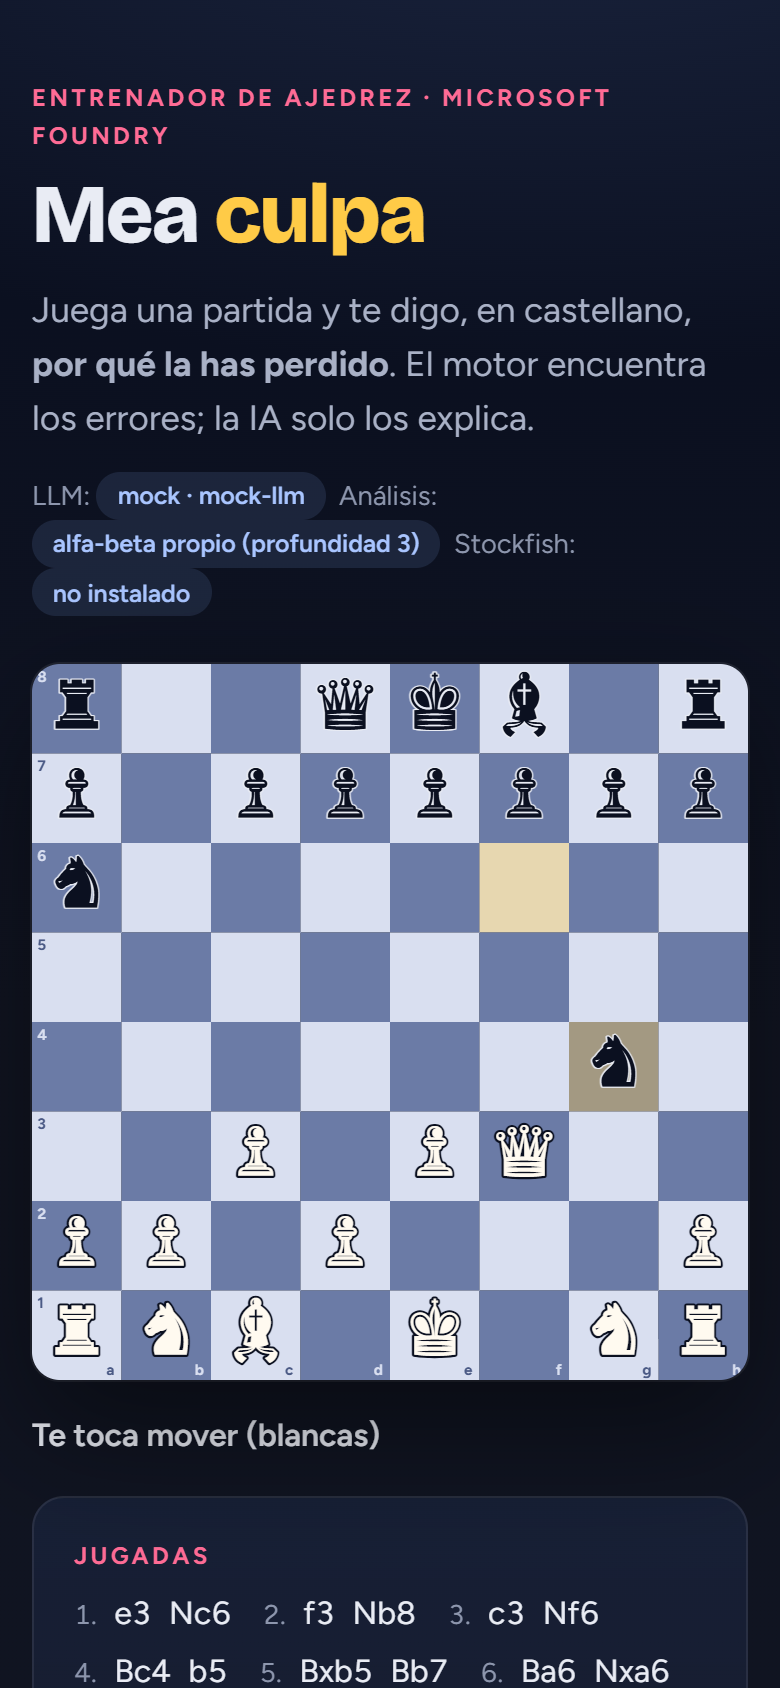
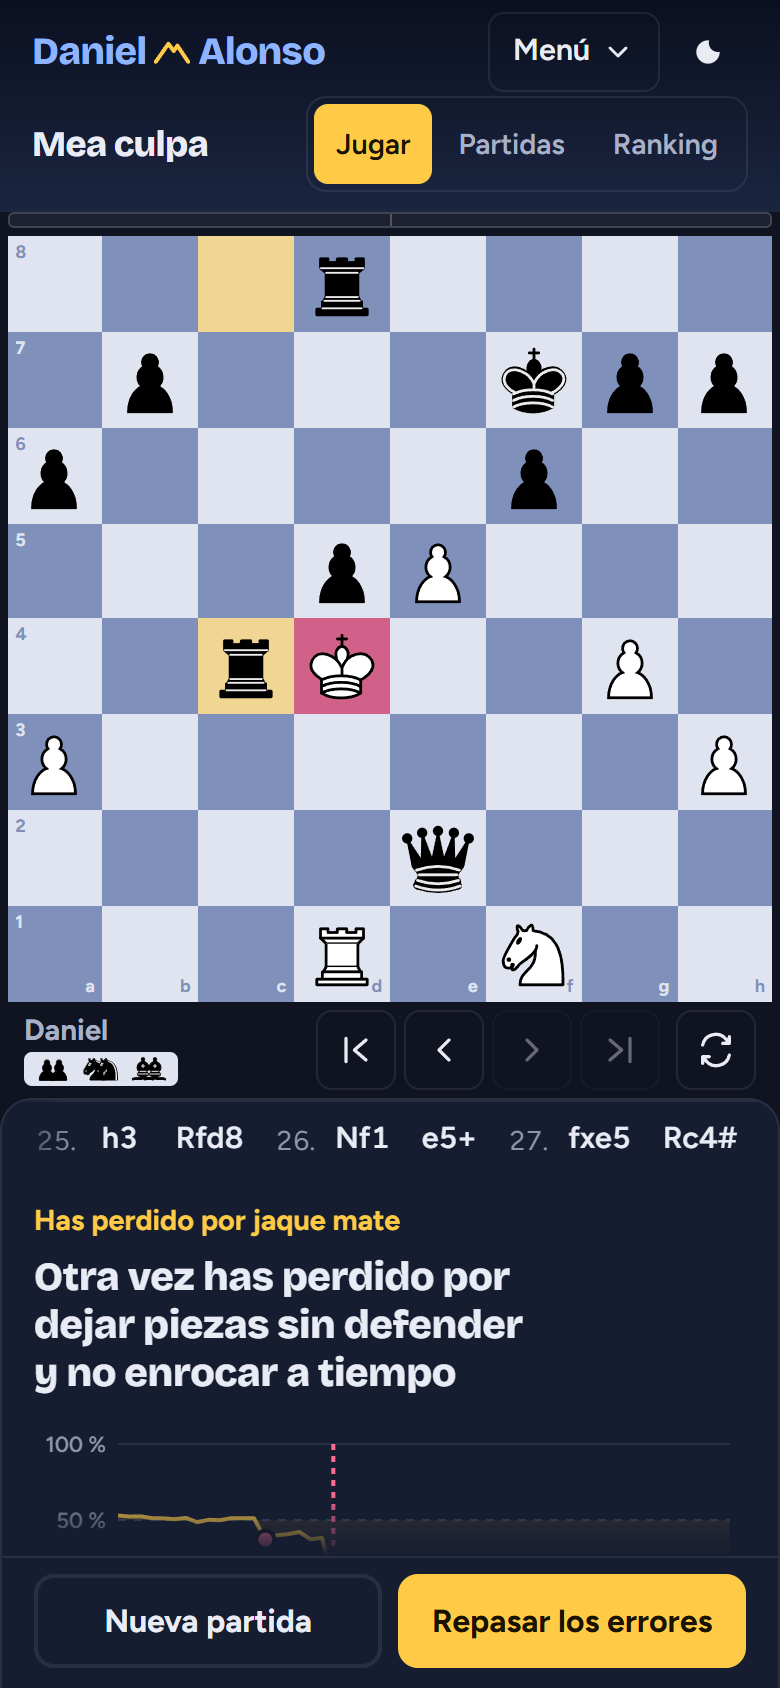
README: capturas de la versión en producción y datos al día
Capturas nuevas (diagnóstico real de GPT-4.1 mini tras perder contra Stockfish, rival Llama 3.3 70B
corrigiendo una jugada ilegal y vista de móvil) y fuera lo que ya no es cierto: 316 tests, Stockfish
en la imagen, Foundry y la CI ya probados de verdad.

diff --git a/README.md b/README.md
@@ -6,7 +6,7 @@ Un entrenador de ajedrez que, al acabar la partida, te dice **en castellano y si
 no se lo inventa: un motor de ajedrez encuentra los errores y un LLM desplegado en **Microsoft Foundry** solo los
 explica.
 
-![Diagnóstico tras una partida contra el minimax](docs/diagnostico.png)
+![Diagnóstico de una partida perdida contra Stockfish: GPT-4.1 mini en Foundry explica los errores que encontró el motor](docs/diagnostico.png)
 
 ## El problema
 
@@ -25,7 +25,7 @@ El script de evaluación está listo para repetirse contra un modelo real de Fou
 
 | Qué | Resultado |
 |---|---|
-| Tests | **135 tests en verde** (`pytest`; 134 + 1 que solo corre con Stockfish instalado): validación de jugadas, reintentos/fallback, modo experimento (derrota por ilegalidad), tope de gasto, extracción de jugadas en texto, proveedores Azure OpenAI, Claude en Foundry y Ollama con red simulada, Stockfish como ancla, aperturas, Elo por máxima verosimilitud y torneo de punta a punta, mates en 1 y 2, detección de errores, validación de la salida del LLM, API, cliente de Azure con red simulada, login con Google (tokens firmados de prueba), aislamiento entre usuarios, cuotas y almacén Blob simulado |
+| Tests | **316 tests en verde** (`pytest`; alguno solo corre con Stockfish instalado): validación de jugadas, reintentos/fallback, modo experimento (derrota por ilegalidad), tope de gasto, extracción de jugadas en texto, proveedores Azure OpenAI, Claude en Foundry y Ollama con red simulada, Stockfish como ancla, aperturas, Elo por máxima verosimilitud y torneo de punta a punta, mates en 1 y 2, detección de errores, validación de la salida del LLM, API, cliente de Azure con red simulada, login con Google (tokens firmados de prueba), aislamiento entre usuarios, cuotas y almacén Blob simulado |
 | Detección de errores en partidas históricas | En las miniaturas, la mayor caída del motor es el error clásico: **5…Bxd1??** en el mate de Légal, **2.g4??** en el mate del loco, **3…Nf6??** en el del pastor. En las partidas largas, el alfa-beta a profundidad 3 no siempre coincide con el análisis histórico (en la Siempreviva marca 7…d3 y no 19…Qxf3); con Stockfish sería más fiable |
 | Jugadas ilegales del LLM (mock) | 4,8 % a temperatura 0 · 24,5 % a 0,7 · 48,1 % a 1,2 — sin una sola jugada ilegal en el tablero gracias a la validación con python-chess |
 | Coste por diagnóstico | ~750 tokens de entrada + ~200 de salida ≈ **0,0005 $** con precios tipo gpt-4.1-mini (estimado; configurable) |
@@ -53,26 +53,27 @@ flowchart LR
     API -.->|métricas: ilegales por<br/>modelo y temperatura| M[(JSONL)]
 ```
 
-\* Stockfish solo aparece si ya está instalado (ver abajo).
+\* Stockfish va instalado en la imagen Docker; en local solo aparece si lo encuentra (ver abajo).
 
 ### Dos formas de jugar
 
 1. **Tú contra una IA de Foundry.** Un modelo de chat elige sus jugadas. Cada propuesta pasa por python-chess: si es
    ilegal o no se entiende, se le devuelve el error («'Ke9' es ilegal en esta posición») y vuelve a intentarlo, hasta
    `LLM_MAX_RETRIES` veces (3 por defecto). Si sigue fallando, se juega una jugada legal de respaldo y queda apuntado.
-   Cada intento se registra para medir **cuántas jugadas ilegales propone cada modelo a cada temperatura**; la página
-   lo muestra en una tabla. Opcionalmente se le puede dar la lista de jugadas legales para comparar.
+   Cada intento se registra para medir **cuántas jugadas ilegales propone cada modelo a cada temperatura**
+   (`GET /api/meaculpa/metrics/llm`), y la página avisa cuando el modelo ha necesitado más de un intento. Por la API
+   también se le puede dar la lista de jugadas legales para comparar.
 2. **Tú contra algoritmos clásicos**, de menos a más fuerte:
    - *Aleatorio*: cualquier jugada legal.
    - *Codicioso*: captura lo más valioso que pueda (y da mate en una si lo ve).
    - *Minimax alfa-beta*: negamax con poda alfa-beta, profundización iterativa, quiescencia sobre capturas, tabla de
      transposiciones, ordenación MVV-LVA + killer moves y evaluación de material + tablas pieza-casilla. Profundidad
      configurable (1–4).
-   - *Stockfish* con nivel 0–20, **solo si hay un binario `stockfish` en el PATH o en `STOCKFISH_PATH`**. El proyecto no
-     descarga binarios; si no lo encuentra, la opción no aparece (en este equipo no estaba instalado, así que esa parte
-     no se ha probado).
+   - *Stockfish* con nivel 0 a 20. La imagen Docker lo instala con el paquete `stockfish` de Debian; en local se usa
+     el binario del PATH o de `STOCKFISH_PATH`, y si no lo encuentra la opción no aparece. El proyecto no descarga
+     binarios.
 
-![Rival LLM proponiendo una jugada ilegal y corrigiéndose](docs/rival-llm.png)
+![Partida contra Llama 3.3 70B en Foundry: su última jugada necesitó dos intentos para ser legal](docs/rival-llm.png)
 
 ### El análisis «mea culpa»
 
@@ -95,6 +96,8 @@ principal: sin comentarios, sin variantes y sin cabeceras de texto libre (`Event
 otra vía de inyección; solo se conservan `FEN`/`SetUp` (validados por python-chess) y `Result` (lista cerrada). El
 prompt de sistema dice además que cualquier instrucción dentro de los datos se ignora, y la interfaz pinta la salida
 del LLM siempre como texto (nunca `v-html`).
+
+<img src="docs/movil.png" alt="El mismo diagnóstico en el móvil" width="300">
 
 ## Seguridad y límites de la demo pública
 
@@ -204,7 +207,8 @@ en local usa tu `az login` y en Azure la identidad administrada (`AZURE_CLIENT_I
 Las llamadas usan `chat.completions.parse(response_format=<modelo pydantic>)`.
 
 Los tests comprueban este cliente sin red: un transporte HTTP falso verifica la URL, la cabecera `Authorization: Bearer`,
-el `response_format` JSON Schema y el parseo. **No se ha probado contra un recurso real de Azure.**
+el `response_format` JSON Schema y el parseo. En producción corre contra el recurso real de Foundry con la identidad
+administrada.
 
 Selector de modelo del rival IA: `GET /api/meaculpa/models` (ajedrez) y `GET /api/geo/models` (fotos, solo los que
 aceptan imágenes) devuelven el catálogo de `backend/meaculpa/models.py` con `disponible`, `fabricante` y `razona` (los
@@ -348,8 +352,8 @@ export STOCKFISH_PATH="C:/.../stockfish-windows-x86-64-universal.exe"   # o 'sto
 - **Recurso de Microsoft Foundry existente** (`foundryAccountName`, hoy `meaculpa-fc-7952`, creado para el experimento,
   con `disableLocalAuth`): el Bicep no lo crea, solo le añade el **deployment del modelo** (`gpt-4.1-mini`,
   GlobalStandard, 10K TPM; parametrizable). `gpt-6-luna` no tiene cuota en la suscripción (0 TPM).
-- **Azure Container Registry Basic** (sin usuario admin) para la imagen de la API: el repo es privado, así que GHCR
-  obligaría a dar credenciales a Container Apps. La app tira de la imagen con su identidad administrada (*AcrPull*).
+- **Azure Container Registry Basic** (sin usuario admin) para la imagen de la API: se eligió cuando el repo era
+  privado, porque GHCR obligaba a dar credenciales a Container Apps. La app tira de la imagen con su identidad administrada (*AcrPull*).
 - **Storage account** (Standard_LRS, sin claves compartidas ni acceso público) con un contenedor para partidas y
   cuotas; los contadores diarios se borran solos a los 30 días.
 - **Identidad administrada** asignada por el usuario con *Cognitive Services OpenAI User* sobre Foundry y *Storage
@@ -479,19 +483,16 @@ al LLM, los 10K TPM del deployment y el escalado máximo a 1 réplica. (El Stora
 
 ## Qué falta
 
-- **No se ha probado contra Azure real**: ni el modelo de Foundry, ni el despliegue Bicep, ni Blob Storage, ni el
-  login con un cliente OAuth real (los tests usan tokens firmados con una clave de prueba). La imagen Docker sí se
-  construye y arranca en local. Las cifras de calidad del LLM están por medir.
-- Stockfish 19 ya está instalado (winget) y el ancla del experimento se ha probado con él; el rival de la demo y el analizador con Stockfish siguen sin probar a fondo. Winget no creó el alias `stockfish` en `%LOCALAPPDATA%/Microsoft/WinGet/Links`: hay que definir `STOCKFISH_PATH`.
-- Los proveedores Azure OpenAI y Claude en Foundry solo se han probado con red simulada; Ollama, contra un servidor local real.
+- Las cifras de calidad del diagnóstico (coincidencia con el motor, errores inventados) solo están medidas en mock:
+  falta repetir `evaluate.py` contra los modelos de Foundry.
+- El proveedor de Claude en Foundry solo se ha probado con red simulada, porque la suscripción no tiene cuota para
+  Claude. Ollama se ha probado contra un servidor local real.
 - El análisis con el motor propio puede tardar ~30 s en partidas largas; se podría paralelizar por posiciones o pasar a Stockfish.
 - Las métricas de jugadas ilegales del LLM (`llm_moves.jsonl`) siguen en disco local: en Container Apps se pierden
   al escalar a cero. No contienen datos de usuarios.
 - El límite de un análisis simultáneo es por réplica, no global.
 - Las etiquetas de patrones son heurísticas sencillas (no detectan clavadas, horquillas, debilidades de peones…).
-- El frontend no tiene arrastrar y soltar ni reloj; la promoción se elige con un selector simple.
-- La CI y el despliegue (`.github/workflows/`) están escritos pero el repo aún no tiene remoto, así que nunca se han
-  ejecutado en GitHub.
+- Las partidas no tienen reloj.
 
 ## Estructura
 
